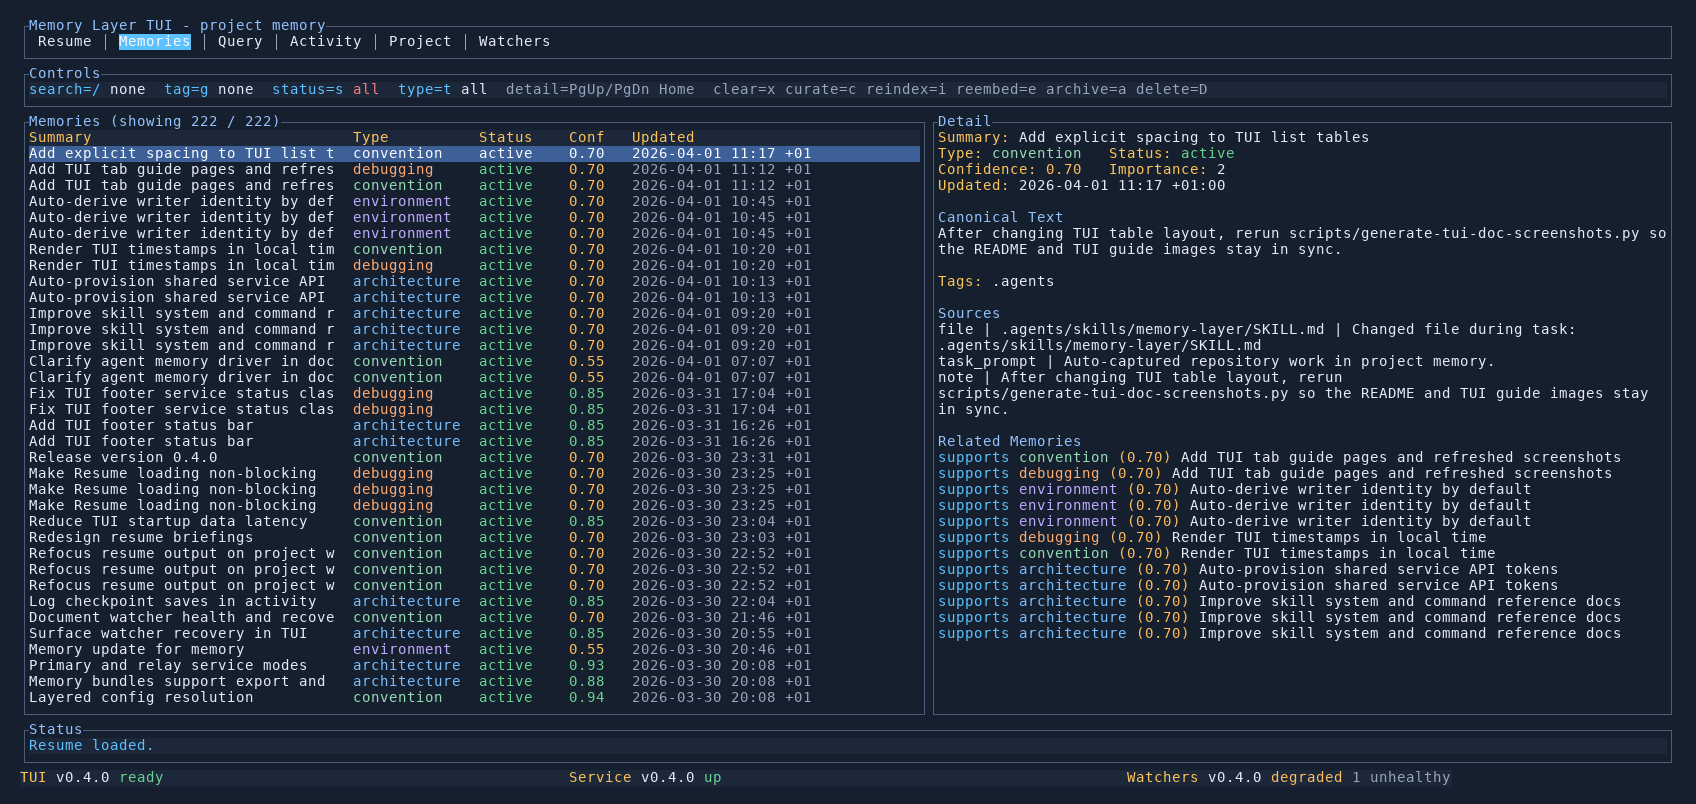
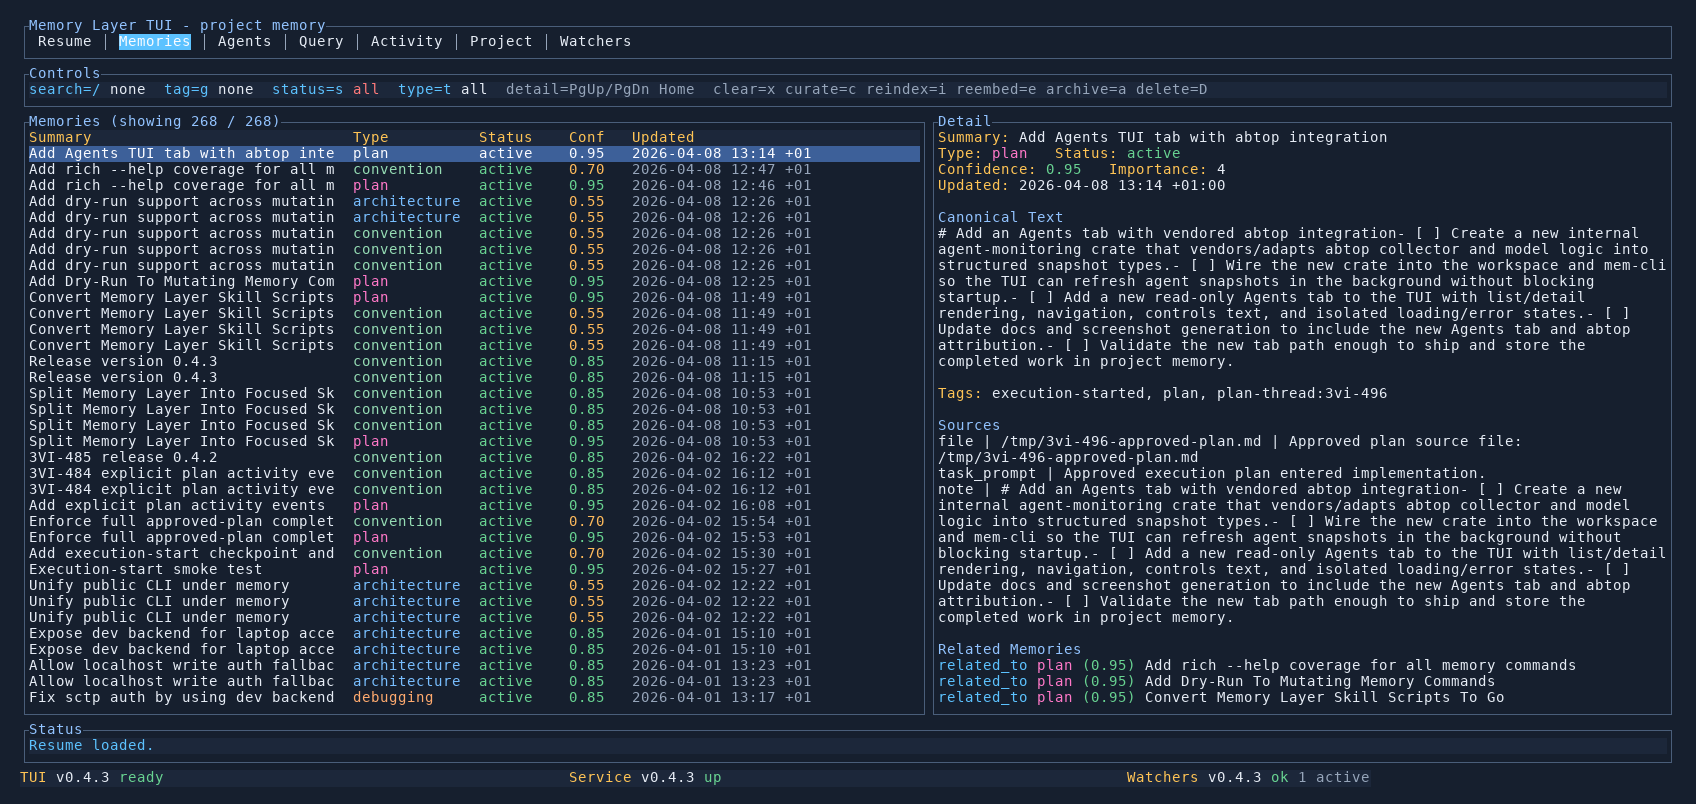
Docs: add Agents tab guide and screenshots (3VI-496)

diff --git a/scripts/generate-tui-doc-screenshots.py b/scripts/generate-tui-doc-screenshots.py
@@ -257,6 +257,10 @@ def main() -> int:
 
         send_keys(tui_session, "Tab")
         sleep_for(0.6)
+        screenshots["agents-tab.png"] = capture_pane(tui_session)
+
+        send_keys(tui_session, "Tab")
+        sleep_for(0.6)
         screenshots["project-tab.png"] = capture_pane(tui_session)
 
         kill_session(tui_session)
@@ -265,6 +269,7 @@ def main() -> int:
         sleep_for(3.0)
         start_session(tui_session, f"{TUI_BIN} tui --project {PROJECT}")
         sleep_for(4.0)
+        send_keys(tui_session, "Tab")
         send_keys(tui_session, "Tab")
         send_keys(tui_session, "Tab")
         send_keys(tui_session, "Tab")

diff --git a/docs/user/tui/agents.md b/docs/user/tui/agents.md
@@ -1,0 +1,36 @@
+# Agents Tab
+
+Use the `Agents` tab to monitor local Codex and Claude sessions across projects without leaving Memory Layer.
+
+![Agents tab](../../img/tui/agents-tab.png)
+
+## What It Shows
+
+- one row per visible agent session across local projects
+- project, agent type, status, token volume, context-window percentage, and current task
+- selected-session details such as PID, session id, cwd, model, git state, and child processes
+- account-level rate-limit summaries when available
+- orphan listening ports detected from child processes whose parent session ended
+
+This tab is read-only. It is inspired by `abtop`, but it uses Memory Layer's own layout and controls.
+
+## Key Controls
+
+- `Tab` or `h/l` move into and out of the tab
+- `j/k` move between visible sessions
+- `PgUp/PgDn` scroll the detail pane
+- `Home` jump detail scrolling back to the top
+- `r` refresh the wider Memory project state; agent session collection also keeps updating in the background
+
+## When To Use It
+
+- seeing all active coding-agent sessions in one place
+- checking whether a session is working, waiting, or done
+- spotting context-window pressure or rising token usage
+- finding child processes and open ports started by an agent session
+- checking rate-limit state without opening a separate tool
+
+## See Also
+
+- [TUI Guide](README.md)
+- [Activity Tab](activity.md)

diff --git a/docs/user/tui/README.md b/docs/user/tui/README.md
@@ -26,6 +26,8 @@ Shared navigation:
   - Start here after an interruption. It shows the current work thread, suggested next step, and recent timeline.
 - [Memories Tab](memories.md)
   - Browse the canonical memory list, filter it, and inspect one memory entry in detail.
+- [Agents Tab](agents.md)
+  - Monitor live Codex and Claude sessions across projects with token, context, rate-limit, process, and port details.
 - [Query Tab](query.md)
   - Ask a question against project memory and inspect the ranked results.
 - [Activity Tab](activity.md)
@@ -40,6 +42,7 @@ Shared navigation:
 - If you are returning after time away, open [Resume Tab](resume.md).
 - If you want to inspect or filter stored memory, open [Memories Tab](memories.md).
 - If you want to ask a question directly, open [Query Tab](query.md).
+- If you want to watch active coding-agent sessions across projects, open [Agents Tab](agents.md).
 - If you want to understand what changed recently, open [Activity Tab](activity.md).
 - If you want high-level health and pending review work, open [Project Tab](project.md).
 - If you want watcher liveness and watchdog status, open [Watchers Tab](watchers.md).

diff --git a/docs/user/README.md b/docs/user/README.md
@@ -17,6 +17,7 @@ This section is for people installing, configuring, and using Memory Layer in re
 - [TUI Guide](tui/README.md)
 - [Resume Tab](tui/resume.md)
 - [Memories Tab](tui/memories.md)
+- [Agents Tab](tui/agents.md)
 - [Query Tab](tui/query.md)
 - [Activity Tab](tui/activity.md)
 - [Project Tab](tui/project.md)
